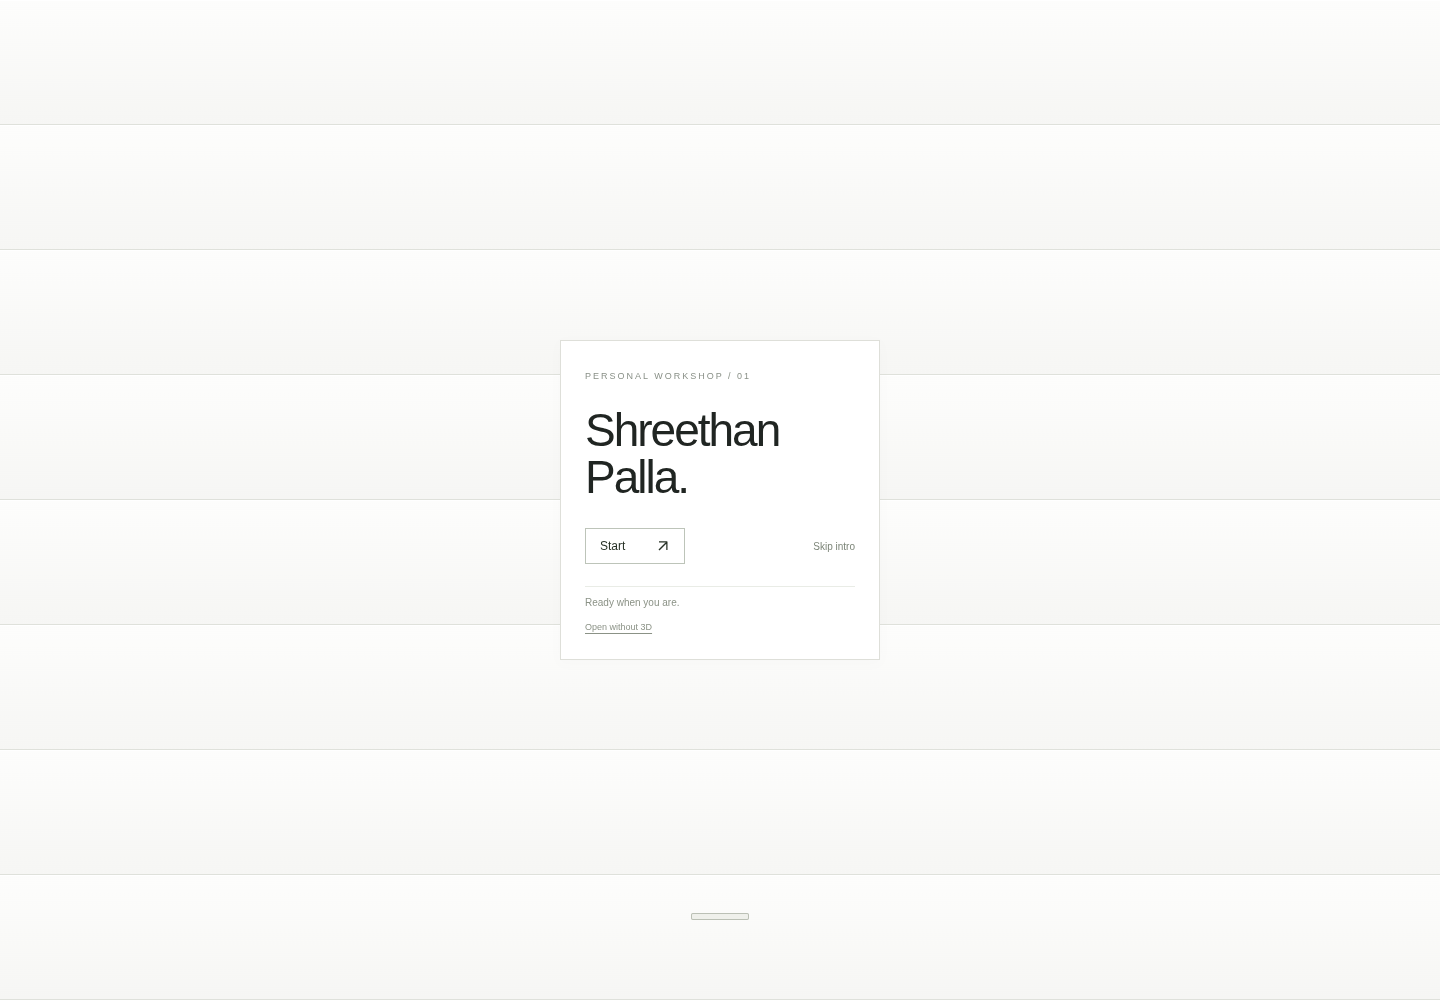
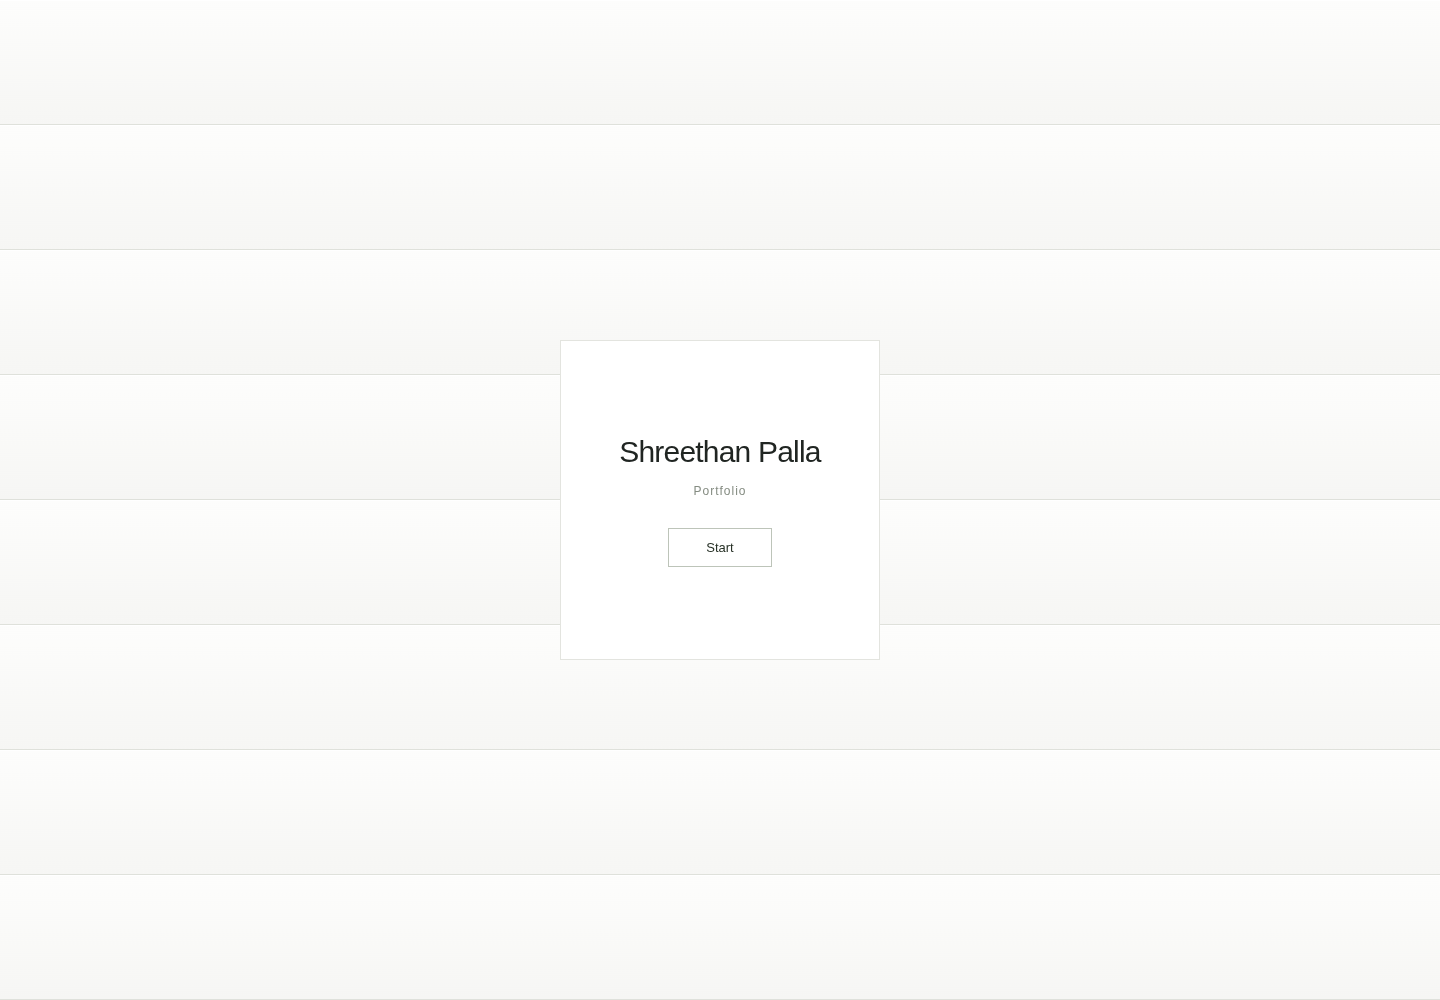
Simplify entrance to centered name, portfolio and start

diff --git a/experience/src/Application/UI/style.css b/experience/src/Application/UI/style.css
@@ -191,19 +191,14 @@ br {
 .garage-entry--opening .garage-door{transform:translate3d(0,-108%,0)}
 .garage-panels{position:absolute;inset:0;display:grid;grid-template-rows:repeat(8,1fr);pointer-events:none}
 .garage-panel{background:linear-gradient(180deg,#fdfdfc 0%,#f6f6f4 100%);border-bottom:1px solid #dfe1db;box-shadow:inset 0 1px #ffffff;box-sizing:border-box}
-.garage-nameplate{position:relative;width:320px;min-height:320px;padding:24px;box-sizing:border-box;background:#fff;border:1px solid #dedfd9;box-shadow:0 3px 12px #00000004;text-align:left}
-.garage-eyebrow{font:9px/1.6 Arial,Helvetica,sans-serif;letter-spacing:2px;color:#899087}
-.garage-name{font:400 46px/1.02 Arial,Helvetica,sans-serif!important;letter-spacing:-2px;color:#202522!important;margin:24px 0 27px!important}
-.garage-start-row{display:flex;align-items:center;justify-content:space-between;gap:15px}
-.garage-start{min-width:100px;display:flex;justify-content:space-between;gap:25px;border:1px solid #bdc4b9;background:#fff;padding:10px 14px;font:12px Arial,Helvetica,sans-serif;color:#273126;cursor:pointer}
+.garage-nameplate{position:relative;width:320px;height:320px;padding:28px;box-sizing:border-box;display:flex;flex-direction:column;align-items:center;justify-content:center;background:#fff;border:1px solid #e3e4df;text-align:center}
+.garage-name{font:400 30px/1.2 Arial,Helvetica,sans-serif!important;letter-spacing:-.8px;color:#202522!important;margin:0!important}
+.garage-subtitle{font:12px/1.5 Arial,Helvetica,sans-serif!important;letter-spacing:1px;color:#858c82!important;margin:12px 0 28px!important}
+.garage-start{min-width:104px;border:1px solid #bdc4b9;background:#fff;padding:11px 22px;font:13px Arial,Helvetica,sans-serif;color:#273126;cursor:pointer;text-align:center}
 .garage-start:hover:not(:disabled){background:#f4f6f1}
-.garage-start:disabled,.garage-skip:disabled{opacity:.4;cursor:wait}
-.garage-skip{border:0;background:none;font:10px Arial,Helvetica,sans-serif;color:#7c8578;cursor:pointer;padding:8px 0}
-.garage-load-track{margin-top:22px;height:1px;background:#e9ece6;overflow:hidden}
-.garage-load-track span{display:block;width:100%;height:100%;background:#858f7f;transform-origin:left center;transition:transform .2s}
-.garage-status{font:10px/1.6 Arial,Helvetica,sans-serif!important;color:#8b9286!important;margin:8px 0 0!important}
-.garage-direct{display:inline-block;font:9px/1.6 Arial,Helvetica,sans-serif;color:#8b9286;text-underline-offset:3px;margin-top:9px}
-.garage-handle{position:absolute;bottom:8%;left:50%;transform:translateX(-50%);width:56px;height:5px;border:1px solid #bbc0b5;border-radius:2px;background:#eff0eb}
+.garage-start:disabled{opacity:.4;cursor:wait}
+.garage-direct{font:11px/1.6 Arial,Helvetica,sans-serif;color:#70796b;margin-top:15px;text-underline-offset:3px}
+.garage-sr-only{position:absolute!important;width:1px;height:1px;padding:0;margin:-1px;overflow:hidden;clip:rect(0,0,0,0);white-space:nowrap;border:0}
 .garage-nameplate button:focus-visible,.garage-direct:focus-visible{outline:2px solid #5f7756;outline-offset:4px}
-@media(max-width:600px){.garage-nameplate{width:252px;min-height:265px;padding:24px}.garage-name{font-size:40px!important}.garage-panels{grid-template-rows:repeat(8,1fr)}}
-@media(prefers-reduced-motion:reduce){.garage-door,.garage-load-track span{transition:none}}
+@media(max-width:600px){.garage-nameplate{width:252px;height:252px;padding:20px}.garage-name{font-size:26px!important}}
+@media(prefers-reduced-motion:reduce){.garage-door{transition:none}}

diff --git a/experience/src/Application/UI/components/LoadingScreen.tsx b/experience/src/Application/UI/components/LoadingScreen.tsx
@@ -29,10 +29,10 @@ const LoadingScreen: React.FC = () => {
     }, []);
 
     const ready = progress >= 1 && !failed;
-    const start = (skip: boolean) => {
+    const start = () => {
         if (!ready || started.current) return;
         started.current = true;
-        const immediate = skip || window.matchMedia('(prefers-reduced-motion: reduce)').matches;
+        const immediate = window.matchMedia('(prefers-reduced-motion: reduce)').matches;
         setPhase(immediate ? 'done' : 'opening');
         // The camera listens for the same event as the original boot screen.
         eventBus.dispatch('loadingScreenDone', { immediate });
@@ -49,17 +49,12 @@ const LoadingScreen: React.FC = () => {
                     {Array.from({ length: 8 }, (_, i) => <div key={i} className="garage-panel" />)}
                 </div>
                 <section className="garage-nameplate" aria-label="Shreethan Palla portfolio">
-                    <span className="garage-eyebrow">PERSONAL WORKSHOP / 01</span>
-                    <h1 className="garage-name">Shreethan<br />Palla.</h1>
-                    <div className="garage-start-row">
-                        <button className="garage-start" onClick={() => start(false)} disabled={!ready}>Start <svg aria-hidden="true" width="14" height="14" viewBox="0 0 14 14" fill="none"><path d="M3 11L11 3M3 3H11V11" stroke="currentColor" strokeWidth="1.2" /></svg></button>
-                        <button className="garage-skip" onClick={() => start(true)} disabled={!ready}>Skip intro</button>
-                    </div>
-                    <div className="garage-load-track" role="progressbar" aria-label="Loading workshop" aria-valuemin={0} aria-valuemax={100} aria-valuenow={Math.round(progress * 100)}><span style={{ transform: `scaleX(${progress})` }} /></div>
-                    <p className="garage-status" role="status">{failed ? 'The 3D room could not load.' : ready ? 'Ready when you are.' : `Preparing the workshop · ${Math.round(progress * 100)}%`}</p>
-                    <a className="garage-direct" href="/desktop">Open without 3D</a>
+                    <h1 className="garage-name">Shreethan Palla</h1>
+                    <p className="garage-subtitle">Portfolio</p>
+                    <button className="garage-start" onClick={start} disabled={!ready}>Start</button>
+                    <p className="garage-sr-only" role="status">{failed ? 'Unable to load the workshop.' : ready ? 'Ready when you are.' : 'Loading workshop.'}</p>
+                    {failed && <a className="garage-direct" href="/desktop">Open portfolio</a>}
                 </section>
-                <div className="garage-handle" aria-hidden="true" />
             </div>
         </div>
     );

diff --git a/docs/DECISIONS.md b/docs/DECISIONS.md
@@ -25,4 +25,4 @@ No simultaneous redesign of all six steps. No claims of real robot accuracy with
 
 ## Garage entrance implemented
 
-The reference room is now revealed by a lightweight white sectional-door overlay. Its centered nameplate shows actual asset-loading progress, Start, Skip intro and a direct desktop link. Start lifts the door in 1.7 seconds while the existing room camera glides for 2.5 seconds. Skip/reduced-motion snap the camera to the overview. Model load errors show the direct content route. Physical door tracks and panel bending are not simulated. The rest of the reference scene remains the next asset-replacement checkpoint.
+The reference room is now revealed by a lightweight white sectional-door overlay. Its centered square shows only Shreethan Palla, Portfolio, and Start. Loading status is available to assistive technology; a direct desktop link appears only on failure. Start lifts the door in 1.7 seconds while the existing room camera glides for 2.5 seconds. Reduced-motion snaps the camera to the overview. Model load errors show the direct content route. Physical door tracks and panel bending are not simulated. The rest of the reference scene remains the next asset-replacement checkpoint.
